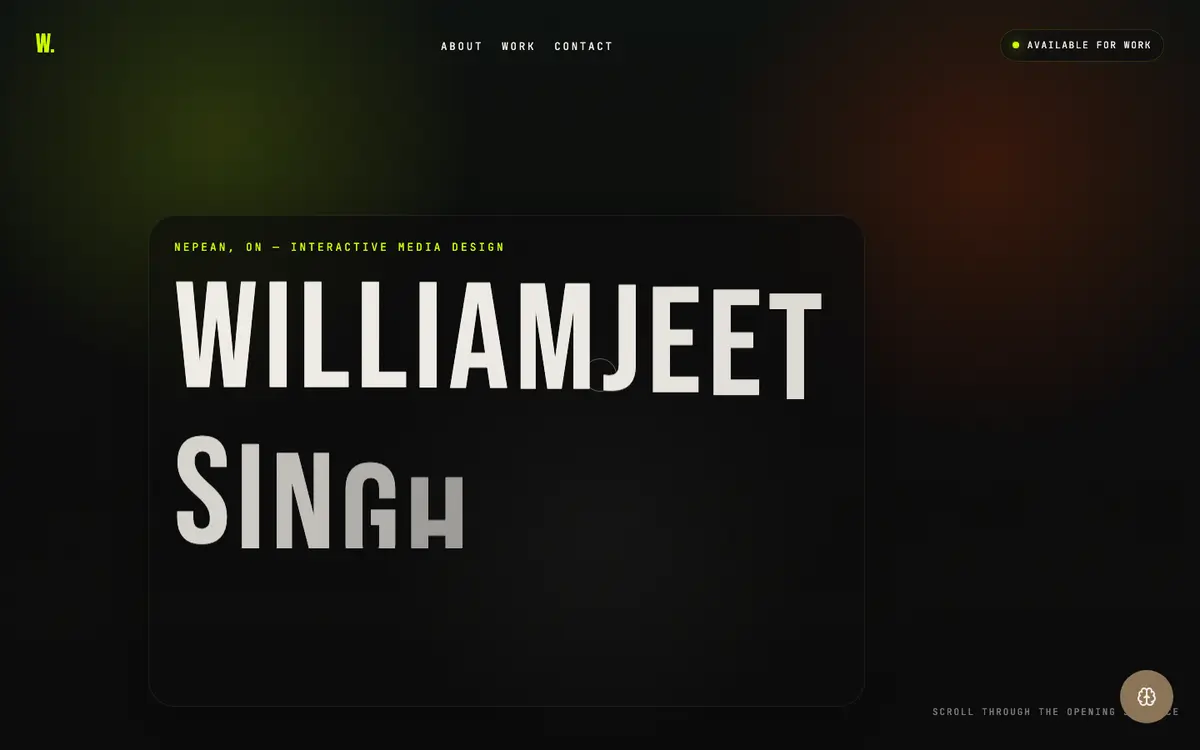
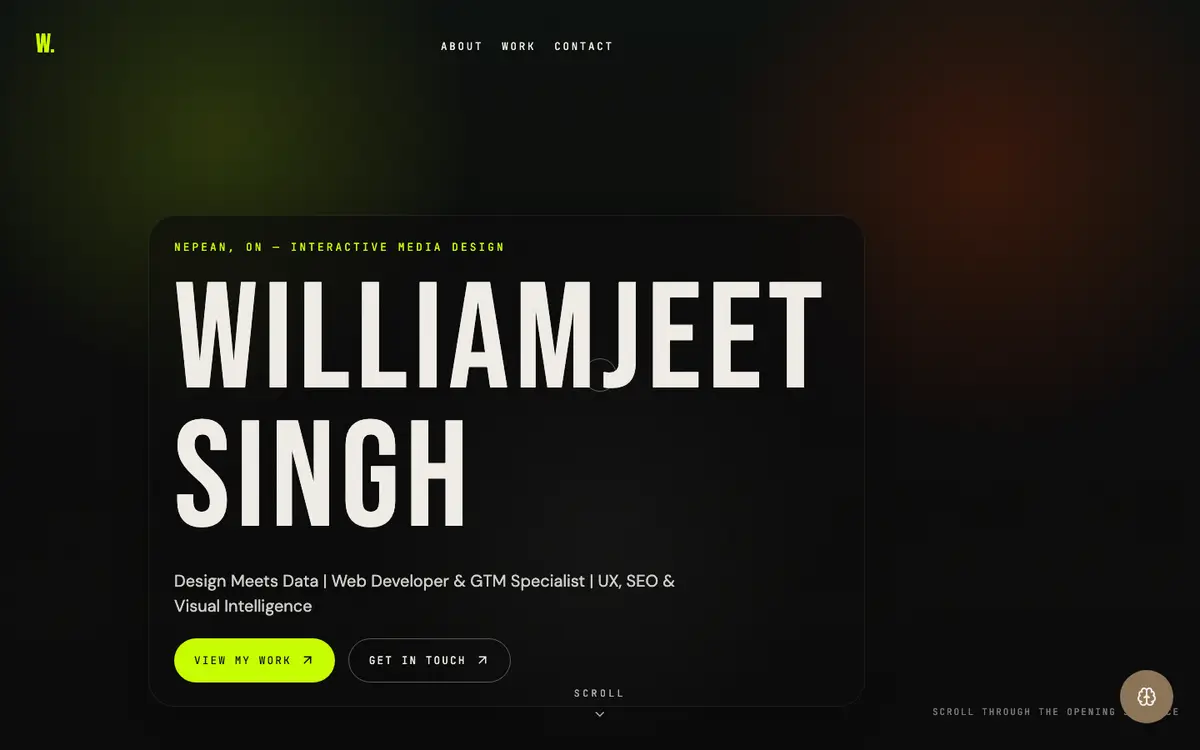
fix: final-review findings (1 critical, 7 important)
- keyboard: focus the window body so PageDown/arrows scroll; Alt+arrows move
- keep ?query and #hash on load/push (phone chips, utm tags)
- Back closes windows opened by later history entries; Forward reopens
- desktop windows from 1024px, clamped to the desktop width (tablets stacked)
- blocked storage no longer aborts the OS module
- Read the paper / Now / Back Issues reachable on phones
- Back Issues 2026 capture without the old availability badge
- CI builds before unit tests; hosting guard fails on CI without a build

diff --git a/tests/e2e/review-fixes.spec.ts b/tests/e2e/review-fixes.spec.ts
@@ -1,0 +1,106 @@
+import { test, expect } from '@playwright/test';
+
+const openCase = async (page: import('@playwright/test').Page) => {
+  await page.goto('/');
+  await page.getByRole('navigation', { name: 'Apps' }).getByRole('link', { name: 'Projects' }).click();
+  await page.locator('[data-window="projects"]').getByRole('link', { name: /POS/ }).first().click();
+  const win = page.locator('[data-window="project-erp-integration"]');
+  await expect(win).toBeVisible();
+  return win;
+};
+
+test('C1: the keyboard scrolls an open case study instead of moving the window', async ({ page }) => {
+  const win = await openCase(page);
+  const before = (await win.boundingBox())!;
+  await page.keyboard.press('PageDown');
+  await page.keyboard.press('ArrowDown');
+  await expect.poll(() => win.locator('.body').evaluate((b) => b.scrollTop)).toBeGreaterThan(0);
+  const after = (await win.boundingBox())!;
+  expect([after.x, after.y]).toEqual([before.x, before.y]);
+});
+
+test('C1: Alt+arrow still moves the focused window', async ({ page }) => {
+  const win = await openCase(page);
+  const before = (await win.boundingBox())!;
+  await page.keyboard.press('Alt+ArrowRight');
+  const after = (await win.boundingBox())!;
+  expect(after.x).toBeGreaterThan(before.x);
+});
+
+test('I2: page load keeps the query string (campaign tags survive)', async ({ page }) => {
+  await page.goto('/?utm_source=linkedin');
+  await page.waitForTimeout(300);
+  expect(new URL(page.url()).search).toBe('?utm_source=linkedin');
+});
+
+test('I2: a cold /ask/?q= link asks the question', async ({ page }) => {
+  await page.goto('/ask/?q=What%20does%20he%20do%20now%3F');
+  await expect(page.locator('[data-window="ask"] .msg.me')).toHaveText('What does he do now?');
+});
+
+test.describe('phone chips', () => {
+  test.use({ viewport: { width: 375, height: 812 }, isMobile: true, hasTouch: true });
+  test('I2: tapping a Mikey chip on a phone answers it', async ({ page }) => {
+    await page.goto('/');
+    await page.getByRole('button', { name: /Mikey/ }).click();
+    await page.locator('#mikey-bubble').getByRole('link', { name: 'What does he do now?' }).click();
+    await expect(page).toHaveURL(/\/ask\/\?q=/);
+    await expect(page.locator('[data-window="ask"] .msg.bot').last()).toContainText('Business Systems Analyst');
+  });
+  test('I5: a phone visitor can find Read the paper, Now and Back Issues', async ({ page }) => {
+    await page.goto('/');
+    await expect(page.locator('a[href="/read/"]:visible').first()).toBeVisible();
+    await expect(page.locator('a[href="/now/"]').first()).toBeAttached();
+    await expect(page.locator('a[href="/back-issues/"]').first()).toBeAttached();
+  });
+});
+
+for (const width of [768, 820, 1024]) {
+  test(`I3: no sideways scroll at ${width}px`, async ({ page }) => {
+    await page.setViewportSize({ width, height: 1000 });
+    for (const path of ['/', '/projects/', '/projects/erp-integration/', '/resume/', '/contact/', '/ask/']) {
+      await page.goto(path);
+      await page.waitForTimeout(300);
+      const w = await page.evaluate(() => document.documentElement.scrollWidth);
+      expect(w, path).toBeLessThanOrEqual(width);
+    }
+  });
+}
+
+test.describe('storage blocked', () => {
+  test.beforeEach(async ({ page }) => {
+    await page.addInitScript(() => {
+      for (const k of ['localStorage', 'sessionStorage']) Object.defineProperty(window, k, { get() { throw new DOMException('blocked', 'SecurityError'); } });
+    });
+  });
+  test('I4: Ask, Terminal and Mikey still work when the browser blocks storage', async ({ page }) => {
+    await page.goto('/ask/');
+    await expect(page.locator('[data-window="ask"] #ask-input')).toBeVisible();
+    await page.goto('/terminal/');
+    await expect(page.locator('[data-window="terminal"] #term-input')).toBeVisible();
+    await page.getByRole('button', { name: /Mikey/ }).click();
+    await expect(page.locator('#mikey-bubble')).toBeVisible();
+  });
+});
+
+test('I6: the Back Issues captions and alt text make no availability claim', async ({ page }) => {
+  await page.goto('/back-issues/');
+  for (const img of await page.locator('[data-window="back-issues"] figure img').all()) {
+    expect(await img.getAttribute('alt')).not.toMatch(/available for work|open to work/i);
+  }
+});
+
+test('I8: Back closes the windows it opened, Forward reopens them', async ({ page }) => {
+  await page.goto('/');
+  await page.getByRole('navigation', { name: 'Apps' }).getByRole('link', { name: 'Projects' }).click();
+  await page.locator('[data-window="projects"]').getByRole('link', { name: /Mikey/ }).first().click();
+  await expect(page.locator('[data-window="project-mikey"]')).toBeVisible();
+  await page.goBack();
+  await expect(page.locator('[data-window="project-mikey"]')).toHaveCount(0);
+  await expect(page.locator('[data-window="projects"][data-focus]')).toBeVisible();
+  await page.goBack();
+  await expect(page.locator('[data-window="projects"]')).toHaveCount(0);
+  await expect(page.locator('[data-window="front"][data-focus]')).toBeVisible();
+  await page.goForward();
+  await expect(page.locator('[data-window="projects"][data-focus]')).toBeVisible();
+});

diff --git a/src/scripts/wm.ts b/src/scripts/wm.ts
@@ -2,13 +2,15 @@
 // Wide screens only; on phones and without JS every link is a normal page load.
 import { clamp, bringToFront, extractWindow, windowIdForPath, isAppLink } from '../lib/wm-core';
 
-const WIDE = matchMedia('(min-width: 768px)');
+const WIDE = matchMedia('(min-width: 1024px)');
 const REDUCE = matchMedia('(prefers-reduced-motion: reduce)');
 const POS_KEY = 'wos-pos';
 const container = document.querySelector<HTMLElement>('[data-windows]')!;
 let order: string[] = [];
 const openers = new Map<string, HTMLElement>();
 const inflight = new Map<string, Promise<void>>();
+let idx = 0;                                   // history position of the current entry
+const openedAt = new Map<number, string>();    // history position → window it opened
 
 const winEl = (id: string) => container.querySelector<HTMLElement>(`[data-window="${CSS.escape(id)}"]`);
 const allWins = () => [...container.querySelectorAll<HTMLElement>('[data-window]')];
@@ -51,7 +53,7 @@ function focusWin(id: string, opts: { moveFocus?: boolean } = {}) {
   applyStack();
   setCurrent(id);
   if (el.dataset.pageTitle) document.title = el.dataset.pageTitle;
-  if (opts.moveFocus !== false) el.focus({ preventScroll: true });
+  if (opts.moveFocus !== false) (el.querySelector<HTMLElement>(':scope > .body') ?? el).focus({ preventScroll: true });
 }
 
 function mount(el: HTMLElement) {
@@ -64,6 +66,7 @@ function mount(el: HTMLElement) {
 async function open(href: string, push: boolean, opener?: HTMLElement) {
   const url = new URL(href, location.href);
   const id = windowIdForPath(url.pathname);
+  const entry = push ? idx + 1 : idx;
   if (opener) openers.set(id, opener);
   if (winEl(id)) {
     transition(() => focusWin(id));
@@ -93,12 +96,16 @@ async function open(href: string, push: boolean, opener?: HTMLElement) {
       if (!winEl(id)) {
         container.append(el);
         mount(el);
+        if (push) openedAt.set(entry, id);
       }
       inflight.delete(id);
       focusWin(id);
     });
   }
-  if (push) history.pushState({ wid: id }, '', url.pathname);
+  if (push) {
+    idx = entry;
+    history.pushState({ wid: id, idx: entry }, '', url.pathname + url.search + url.hash);
+  }
 }
 
 function close(id: string) {
@@ -112,7 +119,7 @@ function close(id: string) {
     const next = top() ?? 'front';
     focusWin(next, { moveFocus: !opener });
     const nextEl = winEl(next);
-    history.replaceState({ wid: next }, '', nextEl?.dataset.url ?? '/');
+    history.replaceState({ wid: next, idx }, '', nextEl?.dataset.url ?? '/');
   });
   if (opener && document.contains(opener)) opener.focus();
   openers.delete(id);
@@ -146,7 +153,7 @@ function onPointerDown(e: PointerEvent) {
   const id = w.dataset.window!;
   if (id !== top()) {
     focusWin(id, { moveFocus: false });
-    history.replaceState({ wid: id }, '', w.dataset.url ?? location.pathname);
+    history.replaceState({ wid: id, idx }, '', w.dataset.url ?? location.pathname);
   }
   const bar = (e.target as Element).closest<HTMLElement>('.tt');
   if (!bar || (e.target as Element).closest('a')) return;
@@ -184,11 +191,12 @@ function onKey(e: KeyboardEvent) {
     e.preventDefault();
     const next = e.key === 'ArrowRight' ? order[0] : order[order.length - 2];
     focusWin(next);
-    history.replaceState({ wid: next }, '', winEl(next)?.dataset.url ?? '/');
+    history.replaceState({ wid: next, idx }, '', winEl(next)?.dataset.url ?? '/');
     return;
   }
   const el = id ? winEl(id) : null;
-  if (el && document.activeElement === el && e.key.startsWith('Arrow') && !e.ctrlKey && !e.altKey) {
+  const typing = (e.target as Element).closest('input, textarea, select, [contenteditable]');
+  if (el && e.altKey && !e.ctrlKey && !e.metaKey && !typing && e.key.startsWith('Arrow') && el.contains(document.activeElement)) {
     e.preventDefault();
     const rect = el.getBoundingClientRect();
     const host = container.getBoundingClientRect();
@@ -204,9 +212,21 @@ function onKey(e: KeyboardEvent) {
 
 function onPop(e: PopStateEvent) {
   if (!WIDE.matches) { location.reload(); return; }
+  const target = (e.state && typeof e.state.idx === 'number') ? e.state.idx : 0;
+  if (target < idx) {
+    // Going back: close every window that a later history entry opened.
+    for (const [at, wid] of [...openedAt]) {
+      if (at > target) {
+        winEl(wid)?.remove();
+        order = order.filter((o) => o !== wid);
+        openedAt.delete(at);
+      }
+    }
+  }
+  idx = target;
   const id = (e.state && e.state.wid) || windowIdForPath(location.pathname);
   if (winEl(id)) transition(() => focusWin(id));
-  else open(location.pathname, false);
+  else open(location.pathname + location.search, false).then(() => openedAt.set(idx, id));
 }
 
 function init() {
@@ -216,7 +236,7 @@ function init() {
   if (focused) order.push(focused.dataset.window!);
   if (WIDE.matches) wins.forEach(mount);
   applyStack();
-  history.replaceState({ wid: top() }, '', location.pathname);
+  history.replaceState({ wid: top(), idx }, '');
   document.addEventListener('click', onClick, true);
   document.addEventListener('pointerdown', onPointerDown);
   document.addEventListener('keydown', onKey);

diff --git a/src/styles/base.css b/src/styles/base.css
@@ -52,6 +52,7 @@ html:not(.js) .js-only { display: none !important; }
 .menubar .right { margin-left: auto; display: flex; align-items: center; gap: 14px; }
 .menubar time { font-family: var(--sans); font-size: 10.5px; letter-spacing: 0.12em; text-transform: uppercase; font-weight: 600; }
 .menubar .read { color: var(--red); }
+.menubar .read-compact { display: none; }
 
 .wallpapers { display: flex; gap: 6px; align-items: center; }
 .wallpapers button {
@@ -93,8 +94,9 @@ html:not(.js) .js-only { display: none !important; }
 }
 .dock .name { display: none; }
 
-@media (max-width: 767px) {
+@media (max-width: 1023px) {
   .menubar nav, .menubar time { display: none; }
+  .menubar .read-compact { display: inline; font-size: 12px; }
   .desktop { padding: calc(var(--bar) + 12px) 12px calc(var(--tabbar) + 30px); }
   .icons { display: none; }
   .wallpapers { gap: 8px; }
@@ -144,7 +146,7 @@ html.js:not(.reduce) .mikey { animation: mikey-pop 520ms cubic-bezier(.2, .9, .3
 .chip:hover { background: var(--ink); color: var(--paper); }
 .bubble-more { font-family: var(--sans); font-size: 0.8rem; font-weight: 600; color: var(--red); }
 
-@media (max-width: 767px) {
+@media (max-width: 1023px) {
   .dock-mikey { margin-left: 0; }
   .mikey-btn { width: 40px; height: 40px; margin-top: -6px; }
   .bubble { position: fixed; left: auto; right: 8px; width: min(320px, calc(100vw - 16px)); bottom: calc(var(--tabbar) + 14px + env(safe-area-inset-bottom)); }
@@ -174,7 +176,7 @@ html.js:not(.reduce) .mikey { animation: mikey-pop 520ms cubic-bezier(.2, .9, .3
 .clip-actions { display: flex; gap: 8px; }
 .clip .btn, .paper .btn.ghost { font-family: var(--sans); font-weight: 600; font-size: 0.8rem; padding: 5px 12px; border: var(--rule) solid var(--ink); border-radius: 3px; background: var(--paper-2); color: var(--ink); cursor: pointer; box-shadow: 2px 2px 0 var(--shadow); }
 .clip .btn.ghost { background: transparent; box-shadow: none; }
-@media (max-width: 767px) {
+@media (max-width: 1023px) {
   .clip { left: 8px; right: 8px; width: auto; bottom: calc(var(--tabbar) + 10px + env(safe-area-inset-bottom)); transform: none; display: flex; align-items: center; gap: 10px; padding: 8px 10px; font-size: 0.8rem; }
   .clip[hidden] { display: none; }
   .clip p { margin: 0; flex: 1; }

diff --git a/tests/unit/hosting.test.ts b/tests/unit/hosting.test.ts
@@ -8,7 +8,11 @@ const dist = 'dist';
 const walk = (d: string): string[] => readdirSync(d).flatMap((f) => (statSync(join(d, f)).isDirectory() ? walk(join(d, f)) : [join(d, f)]));
 const built = existsSync(join(dist, 'index.html'));
 
-describe.skipIf(!built)('GitHub Pages layout', () => {
+// Locally it skips without a build; on CI a missing build is a failure, so the guard can't silently vanish.
+const onCI = !!process.env.CI;
+
+describe.skipIf(!built && !onCI)('GitHub Pages layout', () => {
+  it('has a build to check', () => expect(built, 'run npm run build before npm test').toBe(true));
   const files = built ? walk(dist) : [];
   it('never has a page file beside a folder of the same name', () => {
     const clashes = files.filter((f) => f.endsWith('.html') && !f.endsWith('index.html') && !f.endsWith('404.html') && existsSync(f.replace(/\.html$/, '')));

diff --git a/src/scripts/mikey.ts b/src/scripts/mikey.ts
@@ -36,7 +36,7 @@ if (root) {
   });
   bubble.addEventListener('click', (e) => {
     const chip = (e.target as Element).closest<HTMLAnchorElement>('[data-chip]');
-    if (chip && matchMedia('(min-width: 768px)').matches) {
+    if (chip && matchMedia('(min-width: 1024px)').matches) {
       e.preventDefault();
       e.stopPropagation();
       setOpen(false);
@@ -88,7 +88,7 @@ if (root) {
   try {
     if (location.pathname === '/' && !sessionStorage.getItem('wos-greeted')) {
       sessionStorage.setItem('wos-greeted', '1');
-      const phone = !matchMedia('(min-width: 768px)').matches;
+      const phone = !matchMedia('(min-width: 1024px)').matches;
       setTimeout(() => { if (!document.querySelector('.bubble:not([hidden])')) setOpen(true); }, reduce ? 0 : 900);
       setTimeout(() => { if (!touched) setOpen(false); }, phone ? 7000 : 12_000);
     }

diff --git a/src/styles/window.css b/src/styles/window.css
@@ -2,8 +2,11 @@
 
 .win {
   position: absolute;
-  left: var(--x, 0px); top: var(--y, 0px);
-  width: min(var(--w, 640px), calc(100vw - 150px));
+  --win-w: min(var(--w, 640px), calc(100vw - 150px));
+  width: var(--win-w);
+  /* Never start past the right edge of the desktop, whatever x the page asked for. */
+  left: clamp(0px, var(--x, 0px), max(0px, calc(100% - var(--win-w))));
+  top: var(--y, 0px);
   max-height: calc(100dvh - var(--bar) - 150px);
   display: flex; flex-direction: column;
   background: var(--paper); color: var(--ink);
@@ -35,7 +38,7 @@
 
 .win > .body { overflow: auto; overscroll-behavior: contain; padding: 18px 24px 24px; }
 
-@media (max-width: 767px) {
+@media (max-width: 1023px) {
   .win {
     position: static; width: auto; max-height: none;
     box-shadow: 4px 4px 0 var(--shadow);

diff --git a/src/scripts/consent-ui.ts b/src/scripts/consent-ui.ts
@@ -19,7 +19,9 @@ function loadAnalytics() {
 }
 
 const clip = document.querySelector<HTMLElement>('[data-consent]');
-const choice = readConsent(localStorage);
+let store: Pick<Storage, 'getItem'> = { getItem: () => null };
+try { store = window.localStorage; } catch {} // throws SecurityError when site data is blocked
+const choice = readConsent(store);
 if (choice === 'granted') {
   w.gtag(...gtagConsentUpdate('granted'));
   ('requestIdleCallback' in window ? requestIdleCallback : setTimeout)(loadAnalytics as () => void);

diff --git a/src/scripts/ask.ts b/src/scripts/ask.ts
@@ -1,7 +1,7 @@
 import { answer } from '../lib/assistant';
 import { CHIPS, GREETING } from '../data/assistant';
 
-const WIDE = () => matchMedia('(min-width: 768px)').matches;
+const WIDE = () => matchMedia('(min-width: 1024px)').matches;
 let pending: string | null = null;
 
 const esc = (s: string) => s.replace(/[&<>"]/g, (c) => ({ '&': '&amp;', '<': '&lt;', '>': '&gt;', '"': '&quot;' })[c]!);

diff --git a/src/scripts/terminal-ui.ts b/src/scripts/terminal-ui.ts
@@ -1,7 +1,7 @@
 import { runCommand, complete } from '../lib/terminal';
 import { WALLPAPER_KEY } from '../lib/wallpaper';
 
-const WIDE = () => matchMedia('(min-width: 768px)').matches;
+const WIDE = () => matchMedia('(min-width: 1024px)').matches;
 
 export function mountTerminal(win: Element) {
   const host = win.querySelector<HTMLElement>('[data-terminal]');
